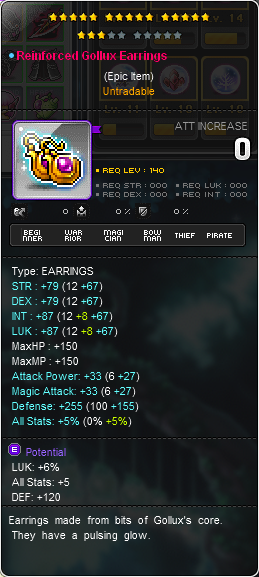
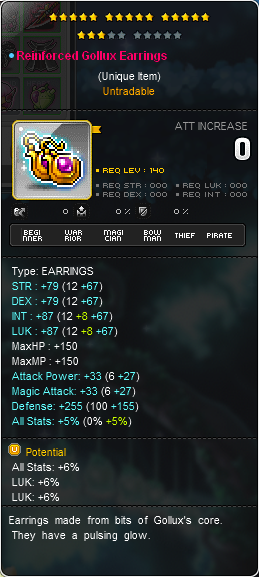
Update equips

diff --git a/data/equips.ts b/data/equips.ts
@@ -113,14 +113,14 @@ export const equips: Equip[] = [
   {
     name: 'Earring',
     stars: [18, 16, 12],
-    potential: [6, 20, 20],
+    potential: [18, 20, 20],
     image: images.earring,
     alt: [images.earring_meso, images.earring_drop],
   },
   {
     name: 'Shoulder',
     stars: [17, null, null],
-    potential: [24, null, null],
+    potential: [33, null, null],
     image: images.shoulder,
     alt: [null, null],
   },
